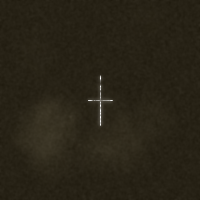
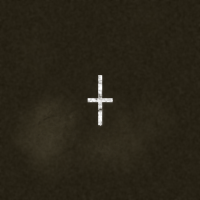
update new velocity display control

Changed region(s): [[0.42, 0.36, 0.57, 0.63]]

diff --git a/LunarMooner/src/LMSpeedMeter.cpp b/LunarMooner/src/LMSpeedMeter.cpp
@@ -28,24 +28,29 @@ source distribution.
 #include <LMSpeedMeter.hpp>
 
 #include <xygine/Resource.hpp>
+#include <xygine/util/Vector.hpp>
 
 #include <SFML/Graphics/RenderTarget.hpp>
+#include <SFML/Graphics/Shader.hpp>
 
 using namespace lm;
 
 namespace
 {
-    const float radius = 80.f;
+    //const float radius = 90.f;
 }
 
-SpeedMeter::SpeedMeter(xy::MessageBus& mb, float maxVal, xy::TextureResource& tr, sf::Shader& shader)
+SpeedMeter::SpeedMeter(xy::MessageBus& mb, const sf::Vector2f& maxVelocity, xy::TextureResource& tr, sf::Shader& shader)
     :xy::Component  (mb, this),
-    m_maxValue      (maxVal),
+    m_maxVelocity   (maxVelocity),
+    m_maxValue      (xy::Util::Vector::lengthSquared(maxVelocity)),
     m_shader        (shader)
 {
     m_mainTexture = tr.get("assets/images/game/console/velocimeter.png");
     m_arrowTexture = tr.get("assets/images/game/console/velocity_marker.png");
     m_normalTexture = tr.get("assets/images/game/console/velocity_normal.png");
+
+    m_arrowTexture.setRepeated(true);
 
     //first 4 verts are red ring
     sf::Vector2f size(m_mainTexture.getSize());
@@ -66,6 +71,7 @@ SpeedMeter::SpeedMeter(xy::MessageBus& mb, float maxVal, xy::TextureResource& tr
     m_vertices[7].position.y = size.y;
     m_vertices[7].texCoords = { size.x / 2.f, size.y };
 
+    const float radius = size.y / 2.f;
     m_shape.setRadius(radius);
     m_shape.setOrigin(radius, radius);
     m_shape.setPosition(size.x / 4.f, size.y / 2.f);
@@ -76,11 +82,12 @@ SpeedMeter::SpeedMeter(xy::MessageBus& mb, float maxVal, xy::TextureResource& tr
 void SpeedMeter::entityUpdate(xy::Entity&, float) 
 {
     //drops down to near zero when no player
-    setValue(m_currentValue * 0.9f);
+    setVelocity(m_currentVelocity * 0.9f);
 }
 
-void SpeedMeter::setValue(float val)
+void SpeedMeter::setVelocity(const sf::Vector2f& velocity)
 {
+    const float val = xy::Util::Vector::lengthSquared(velocity);
     const float ratio = std::min(val / m_maxValue, 1.f);
 
     //set alpha of first 4 verts
@@ -90,7 +97,11 @@ void SpeedMeter::setValue(float val)
         m_vertices[i].color = colour;
     }
 
-    m_currentValue = val;
+    m_currentVelocity = velocity;
+
+    m_offset.x = m_currentVelocity.x / m_maxVelocity.x;
+    m_offset.y = m_currentVelocity.y / m_maxVelocity.y;
+    m_offset *= 0.5f;
 }
 
 
@@ -99,6 +110,11 @@ void SpeedMeter::draw(sf::RenderTarget& rt, sf::RenderStates states) const
 {
     states.texture = &m_arrowTexture;
     states.shader = &m_shader;
+
+    m_shader.setUniform("u_normalMap", m_normalTexture);
+    m_shader.setUniform("u_diffuseMap", m_arrowTexture);
+    m_shader.setUniform("u_offset", m_offset);
+
     rt.draw(m_shape, states);
 
     states.texture = &m_mainTexture;

diff --git a/LunarMooner/src/LMGameController.cpp b/LunarMooner/src/LMGameController.cpp
@@ -44,6 +44,7 @@ source distribution.
 #include <LMWeaponEMP.hpp>
 #include <LMWaterDrawable.hpp>
 #include <LMShaderIds.hpp>
+#include <LMVelocityShader.hpp>
 #include <ResourceCollection.hpp>
 #include <StateIds.hpp>
 #include <Game.hpp>
@@ -344,6 +345,8 @@ GameController::GameController(xy::MessageBus& mb, xy::Scene& scene, CollisionWo
     m_soundCache.insert(std::make_pair(LMSoundID::RoundCountEnd, m_resources.soundResource.get("assets/sound/fx/score_count_end.wav")));
     m_soundCache.insert(std::make_pair(LMSoundID::RoundCountLoop, m_resources.soundResource.get("assets/sound/fx/score_count_loop.wav")));
 
+    m_resources.shaderResource.preload(LMShaderID::VelocityMeter, xy::Shader::Default::vertex, lm::velocityFrag);
+
     //create sprite batch for aliens
     auto sprBatch = xy::Component::create<SpriteBatch>(getMessageBus());
     auto ent = xy::Entity::create(getMessageBus());
@@ -397,7 +400,7 @@ void GameController::entityUpdate(xy::Entity&, float dt)
     //update UI
     if (m_player)
     {
-        m_speedMeter->setValue(m_player->getSpeed());
+        m_speedMeter->setVelocity(m_player->getVelocity());
     }
 
     //count down round time - TODO we can neaten this up a bit
@@ -1015,17 +1018,17 @@ void GameController::fireSpecial()
 void GameController::createUI()
 {
     //velocity meter
-    /*auto speedMeter = xy::Component::create<SpeedMeter>(getMessageBus(), 50000.f, m_resources.textureResource);
+    auto speedMeter = xy::Component::create<SpeedMeter>(getMessageBus(), sf::Vector2f(200.f, 200.f), m_resources.textureResource, m_resources.shaderResource.get(LMShaderID::VelocityMeter));
     auto entity = xy::Entity::create(getMessageBus());
     m_speedMeter = entity->addComponent(speedMeter);
 
-    entity->setPosition(60.f, 600.f);
+    entity->setPosition(40.f, 600.f);
 
-    m_scene.addEntity(entity, xy::Scene::Layer::UI);*/
+    m_scene.addEntity(entity, xy::Scene::Layer::UI);
 
     //score / lives display etc
     auto scores = xy::Component::create<ScoreDisplay>(getMessageBus(), m_resources.fontResource, m_playerStates);
-    auto entity = xy::Entity::create(getMessageBus());
+    entity = xy::Entity::create(getMessageBus());
     m_scoreDisplay = entity->addComponent(scores);
 
     m_scene.addEntity(entity, xy::Scene::Layer::UI);

diff --git a/LunarMooner/include/LMSpeedMeter.hpp b/LunarMooner/include/LMSpeedMeter.hpp
@@ -52,16 +52,19 @@ namespace lm
     class SpeedMeter final :public xy::Component, public sf::Drawable
     {
     public:
-        SpeedMeter(xy::MessageBus&, float maxVal, xy::TextureResource&, sf::Shader&);
+        SpeedMeter(xy::MessageBus&, const sf::Vector2f&, xy::TextureResource&, sf::Shader&);
         ~SpeedMeter() = default;
 
         xy::Component::Type type() const override { return xy::Component::Type::Drawable; }
         void entityUpdate(xy::Entity&, float) override;
 
-        void setValue(float);
+        void setVelocity(const sf::Vector2f&);
         
     private:
-        float m_currentValue;
+        const sf::Vector2f m_maxVelocity;
+        sf::Vector2f m_currentVelocity;
+        sf::Vector2f m_offset;
+
         float m_maxValue;
         sf::CircleShape m_shape;
 

diff --git a/LunarMooner/include/LMShaderIds.hpp b/LunarMooner/include/LMShaderIds.hpp
@@ -36,7 +36,8 @@ enum LMShaderID
 {
     Prepass = xy::Shader::Count,
     NormalMapColoured,
-    WaterEffect
+    WaterEffect,
+    VelocityMeter
 };
 
 #endif //LM_SHADER_IDS_HPP_
